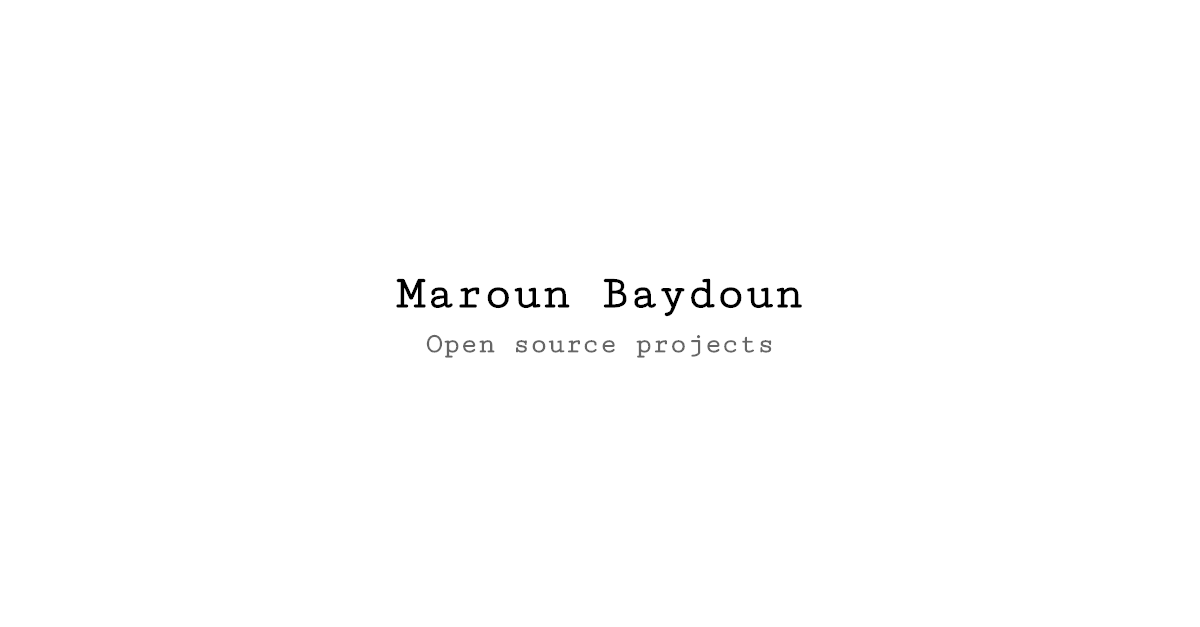
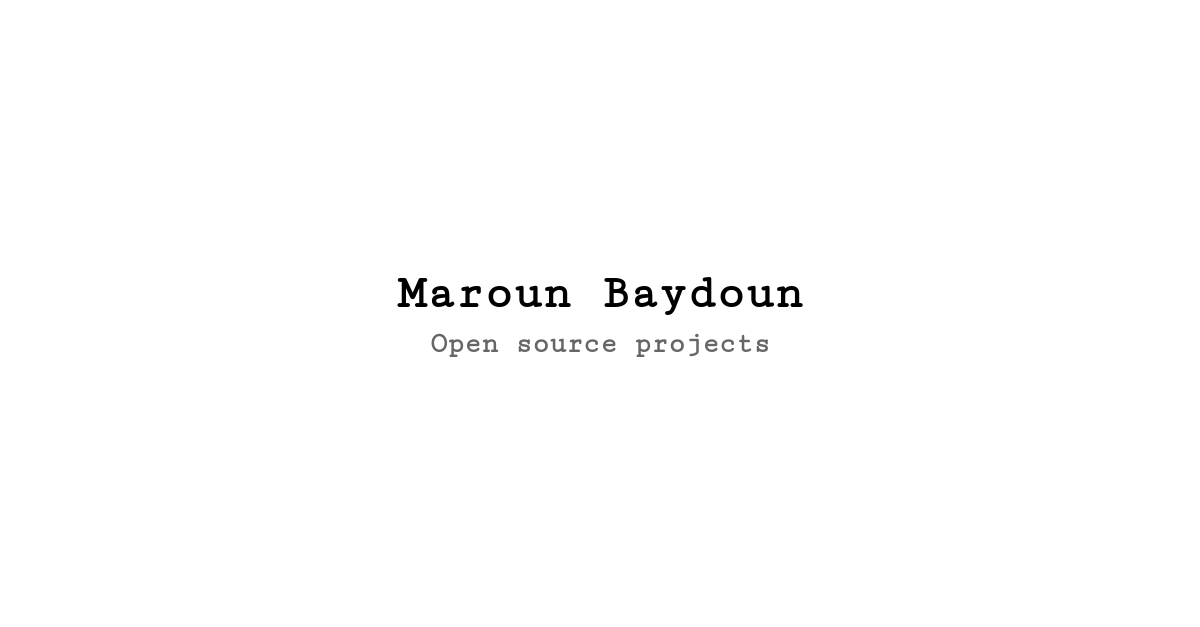
Updates

Changed region(s): [[0.3392, 0.5152, 0.6475, 0.5758], [0.3083, 0.4545, 0.6783, 0.4848]]

diff --git a/index.html b/index.html
@@ -1,4 +1,4 @@
-<!doctype html><html lang="en"><head><meta charset="utf-8"><meta name="viewport" content="width=device-width,initial-scale=1"><meta name="author" content="Maroun Baydoun"><title>Open source projects | Maroun Baydoun</title><meta name="description" content="Open source projects created by Maroun Baydoun"><link rel="canonical" href="https://dev.maroun-baydoun.com/"/><meta name="theme-color" content="#000000"><link rel="manifest" href="site.webmanifest"><link rel="apple-touch-icon" sizes="180x180" href="apple-touch-icon.png"><link rel="icon" type="image/png" sizes="32x32" href="favicon-32x32.png"><link rel="icon" type="image/png" sizes="16x16" href="favicon-16x16.png"><meta property="og:title" content="Open source projects"/><meta property="og:description" content="Open source projects created by Maroun Baydoun"/><meta property="og:type" content="website"/><meta property="og:url" content="https://dev.maroun-baydoun.com/"/><meta property="og:image" content="https://dev.maroun-baydoun.com/image.png"/><meta property="og:image:alt" content="Maroun Baydoun. Open source projects"/><meta property="og:locale" content="en"><meta name="twitter:card" content="summary_large_image"><meta name="twitter:creator" content="@maroun_baydoun"><meta name="twitter:title" content="Open source projects"><meta name="twitter:description" content="Open source projects created by Maroun Baydoun"><link rel="preconnect" href="https://www.googletagmanager.com" crossorigin><link rel="preconnect" href="https://www.google-analytics.com" crossorigin><meta name="viewport" content="width=device-width,initial-scale=1"><script defer="defer" src="31d6cfe0d16ae931b73c.bundle.js"></script><link href="main.754e8c20b22b5ae47a59.css" rel="stylesheet"></head><body><header class="header"><h1>Maroun Baydoun</h1><h2>Open source projects</h2><nav></nav></header><main class="content"><section class="projects-container"><article class="project-container"><h3><a href="https://dev.maroun-baydoun.com/mediaq">mediaq</a></h3><p>Listen to media query updates in JavaScript</p></article><article class="project-container"><h3><a href="https://dev.maroun-baydoun.com/reaflex">reaflex</a></h3><p>Easy Flexbox in React</p></article><article class="project-container"><h3><a href="https://dev.maroun-baydoun.com/react-appear-in">react-appear-in</a></h3><p>Make React components appear sometime in the future</p></article><article class="project-container"><h3><a href="https://dev.maroun-baydoun.com/evented">evented</a></h3><p>Fire and listen to events in JavaScript</p></article><article class="project-container"><h3><a href="https://dev.maroun-baydoun.com/new-hope">new-hope</a></h3><p>Esperanto tokenizer</p></article><article class="project-container"><h3><a href="https://dev.maroun-baydoun.com/youtube-controller-extension">youtube-controller-extension</a></h3><p>Control Youtube™ videos from any web page</p></article><article class="project-container"><h3><a href="https://dev.maroun-baydoun.com/use-media-query">use-media-query</a></h3><p>Listen to media query matches in React</p></article><article class="project-container"><h3><a href="https://dev.maroun-baydoun.com/de-noun-parser">de-noun-parser</a></h3><p>Parse Wikitext's de-noun template</p></article></section></main><footer class="footer"><div class="footer__links"><a href="https://twitter.com/maroun_baydoun" rel="external noopener noreferrer" target="_blank">Twitter </a><a href="https://github.com/maroun-baydoun" rel="external noopener noreferrer" target="_blank">Github </a><a href="https://www.linkedin.com/in/marounbaydoun" rel="external noopener noreferrer" target="_blank">Linkedin</a></div><div class="footer__credits">&copy;<a href="https://maroun-baydoun.com" rel="author">Maroun Baydoun</a></div></footer><script async src="https://www.googletagmanager.com/gtag/js?id=UA-62589493-1"></script><script>window.dataLayer = window.dataLayer || [];
+<!doctype html><html lang="en"><head><meta charset="utf-8"><meta name="viewport" content="width=device-width,initial-scale=1"><meta name="author" content="Maroun Baydoun"><title>Open source projects | Maroun Baydoun</title><meta name="description" content="Open source projects created by Maroun Baydoun"><link rel="canonical" href="https://dev.maroun-baydoun.com/"/><meta name="theme-color" content="#000000"><link rel="manifest" href="site.webmanifest"><link rel="apple-touch-icon" sizes="180x180" href="apple-touch-icon.png"><link rel="icon" type="image/png" sizes="32x32" href="favicon-32x32.png"><link rel="icon" type="image/png" sizes="16x16" href="favicon-16x16.png"><meta property="og:title" content="Open source projects"/><meta property="og:description" content="Open source projects created by Maroun Baydoun"/><meta property="og:type" content="website"/><meta property="og:url" content="https://dev.maroun-baydoun.com/"/><meta property="og:image" content="https://dev.maroun-baydoun.com/image.png"/><meta property="og:image:alt" content="Maroun Baydoun. Open source projects"/><meta property="og:locale" content="en"><meta name="twitter:card" content="summary_large_image"><meta name="twitter:creator" content="@maroun_baydoun"><meta name="twitter:title" content="Open source projects"><meta name="twitter:description" content="Open source projects created by Maroun Baydoun"><link rel="preconnect" href="https://www.googletagmanager.com" crossorigin><link rel="preconnect" href="https://www.google-analytics.com" crossorigin><meta name="viewport" content="width=device-width,initial-scale=1"><script defer="defer" src="31d6cfe0d16ae931b73c.bundle.js"></script><link href="main.0ec304d4b826bf32ca82.css" rel="stylesheet"></head><body><header class="header"><h1>Maroun Baydoun</h1><h2>Open source projects</h2><nav></nav></header><main class="content"><section class="projects-container"><article class="project-container"><h3><a href="https://dev.maroun-baydoun.com/mediaq">mediaq</a></h3><p>Listen to media query updates in JavaScript</p></article><article class="project-container"><h3><a href="https://dev.maroun-baydoun.com/tiny-flex">tiny-flex</a></h3><p>Flexbox layout for the modern web</p></article><article class="project-container"><h3><a href="https://dev.maroun-baydoun.com/reaflex">reaflex</a></h3><p>Easy Flexbox in React</p></article><article class="project-container"><h3><a href="https://dev.maroun-baydoun.com/react-appear-in">react-appear-in</a></h3><p>Make React components appear sometime in the future</p></article><article class="project-container"><h3><a href="https://dev.maroun-baydoun.com/evented">evented</a></h3><p>Fire and listen to events in JavaScript</p></article><article class="project-container"><h3><a href="https://dev.maroun-baydoun.com/new-hope">new-hope</a></h3><p>Esperanto tokenizer</p></article><article class="project-container"><h3><a href="https://dev.maroun-baydoun.com/youtube-controller-extension">youtube-controller-extension</a></h3><p>Control Youtube™ videos from any web page</p></article><article class="project-container"><h3><a href="https://dev.maroun-baydoun.com/use-media-query">use-media-query</a></h3><p>Listen to media query matches in React</p></article><article class="project-container"><h3><a href="https://dev.maroun-baydoun.com/de-noun-parser">de-noun-parser</a></h3><p>Parse Wikitext's de-noun template</p></article></section></main><footer class="footer"><div class="footer__links"><a href="https://twitter.com/maroun_baydoun" rel="external noopener noreferrer" target="_blank">Twitter </a><a href="https://github.com/maroun-baydoun" rel="external noopener noreferrer" target="_blank">Github </a><a href="https://www.linkedin.com/in/marounbaydoun" rel="external noopener noreferrer" target="_blank">Linkedin</a></div><div class="footer__credits">&copy;<a href="https://maroun-baydoun.com" rel="author">Maroun Baydoun</a></div></footer><script async src="https://www.googletagmanager.com/gtag/js?id=UA-62589493-1"></script><script>window.dataLayer = window.dataLayer || [];
             function gtag() { dataLayer.push(arguments); }
             gtag('js', new Date());
 

diff --git a/main.0ec304d4b826bf32ca82.css b/main.0ec304d4b826bf32ca82.css
@@ -1,0 +1,41 @@
+/* cutive-mono-latin-ext-400-normal*/
+@font-face {
+  font-family: 'Cutive Mono';
+  font-style: normal;
+  font-display: swap;
+  font-weight: 400;
+  src: url(3b261e3b4085116a78a2b66766353d95.woff2) format('woff2'), url(5b3b5bacfda3b5803f991989b958d06a.woff) format('woff');
+  unicode-range: U+0100-024F, U+0259, U+1E00-1EFF, U+2020, U+20A0-20AB, U+20AD-20CF, U+2113, U+2C60-2C7F, U+A720-A7FF;
+}
+/* cutive-mono-latin-400-normal*/
+@font-face {
+  font-family: 'Cutive Mono';
+  font-style: normal;
+  font-display: swap;
+  font-weight: 400;
+  src: url(7b77dc1bbf6ed398f70b7e04b497b5d3.woff2) format('woff2'), url(5b3b5bacfda3b5803f991989b958d06a.woff) format('woff');
+  unicode-range: U+0000-00FF, U+0131, U+0152-0153, U+02BB-02BC, U+02C6, U+02DA, U+02DC, U+2000-206F, U+2074, U+20AC, U+2122, U+2191, U+2193, U+2212, U+2215, U+FEFF, U+FFFD;
+}
+
+/* roboto-latin-400-normal*/
+@font-face {
+  font-family: 'Roboto';
+  font-style: normal;
+  font-display: swap;
+  font-weight: 400;
+  src: url(4673b4537a84c7f7a130799aa6af329b.woff2) format('woff2'), url(9b78ea3bc4f00e508f01331aa0733db8.woff) format('woff');
+  
+}
+
+/* roboto-latin-500-normal*/
+@font-face {
+  font-family: 'Roboto';
+  font-style: normal;
+  font-display: swap;
+  font-weight: 500;
+  src: url(869888415d0b1a99ae5c7ac7c4575ccf.woff2) format('woff2'), url(ddd11dabeca881d49f5966f9a769dc97.woff) format('woff');
+  
+}
+
+html,body,div,span,applet,object,iframe,h1,h2,h3,h4,h5,h6,p,blockquote,pre,a,abbr,acronym,address,big,cite,code,del,dfn,em,img,ins,kbd,q,s,samp,small,strike,strong,sub,sup,tt,var,b,u,i,center,dl,dt,dd,ol,ul,li,fieldset,form,label,legend,table,caption,tbody,tfoot,thead,tr,th,td,article,aside,canvas,details,embed,figure,figcaption,footer,header,hgroup,menu,nav,output,ruby,section,summary,time,mark,audio,video{margin:0;padding:0;border:0;font-size:100%;font:inherit;vertical-align:baseline}article,aside,details,figcaption,figure,footer,header,hgroup,menu,nav,section{display:block}body{line-height:1}ol,ul{list-style:none}blockquote,q{quotes:none}blockquote:before,blockquote:after,q:before,q:after{content:"";content:none}table{border-collapse:collapse;border-spacing:0}
+html,body{height:100%}body{color:#000;font-family:-apple-system,BlinkMacSystemFont,"Segoe UI",Roboto,Helvetica,Arial,"Apple Color Emoji","Segoe UI Emoji","Segoe UI Symbol",sans-serif;display:flex;flex-direction:column}a{color:blue;text-underline-offset:3px}a:hover{color:#0000cd}h1,h2,h3,h4,h5,h6{font-family:"Cutive Mono","SFMono-Regular",Consolas,"Liberation Mono",Menlo,Courier,monospace}h1{font-size:2rem}h2{font-size:1.3rem}h3{font-size:1rem}h3+*{margin-top:8px}h4{font-size:.85rem}h4+*{margin-top:8px}strong{font-weight:bold}.header{border-bottom:1px dashed #eee;padding:32px 16px}.header h2{color:#666;margin-top:8px}.header nav{font-size:.8rem;margin-top:8px}.header nav a{margin-right:8px}.content{flex:1 0 auto;line-height:1.5;max-width:50vw;padding:32px 16px}@media only screen and (max-width : 767px){.content{max-width:unset}}.footer{border-top:1px dashed #eee;font-size:.8rem;flex-shrink:0;padding:32px 16px;display:flex;justify-content:space-between}@media only screen and (max-width : 767px){.footer{display:flex;flex-direction:column;align-items:center;justify-content:center}}.footer__links>a{margin-right:16px}@media only screen and (max-width : 767px){.footer__links>a{padding:16px 16px;margin-left:8px;margin-right:8px}}.footer__credits a{margin-left:4px;padding:16px 0;padding-right:16px}@media only screen and (max-width : 767px){.footer__credits{margin-top:40px}}pre[class*=language-].syntax-highlight-container{width:50vw;background-color:#fff;border:1px solid #eee}@media only screen and (max-width : 767px){pre[class*=language-].syntax-highlight-container{width:auto}}@media only screen and (max-width : 767px)and (orientation: landscape){pre[class*=language-].syntax-highlight-container{width:auto}}hr{border:none;height:1px;margin:8px 0}hr.hr--medium{margin:16px 0}hr.hr--large{margin:24px 0}.table{display:block;max-width:75vw;overflow-x:auto;border-spacing:0;border-collapse:collapse}@media only screen and (max-width : 767px){.table{width:100%;max-width:unset}}.table--striped tbody>tr:nth-child(even){background-color:#f5f5f5}.table thead th,.table tbody td{border:1px solid #eee;padding:8px 16px}.table thead>tr>th{font-weight:500}.button{display:inline-block;text-decoration:none;background:#ccc;color:#000;font-family:sans-serif;font-size:1rem;cursor:pointer;text-align:center;border-width:1px;border-style:solid;border-color:#fff gray gray #fff;outline:1px solid #666;transition:background 250ms ease-in-out,transform 150ms ease;-webkit-appearance:none;-moz-appearance:none;margin:0;padding:8px 16px}.button:hover,.button:focus{background:silver}.button:focus{outline-style:dotted}.button:active{transform:scale(0.99)}.monospace{font-family:"Cutive Mono","SFMono-Regular",Consolas,"Liberation Mono",Menlo,Courier,monospace}.ul:not(.ul--condensed) li:not(:last-child){margin-bottom:8px}.ul--margin-left li{margin-left:24px}.ul--margin-top{margin-top:8px}.ul--condensed li{margin-top:0px;margin-bottom:0px}.ul--square{list-style:square}.projects-container .project-container:not(:first-of-type){margin-top:24px}.projects-container .project-container h3{font-size:1.3rem}.projects-container .project-container p{font-size:.85rem;margin-top:8px}
